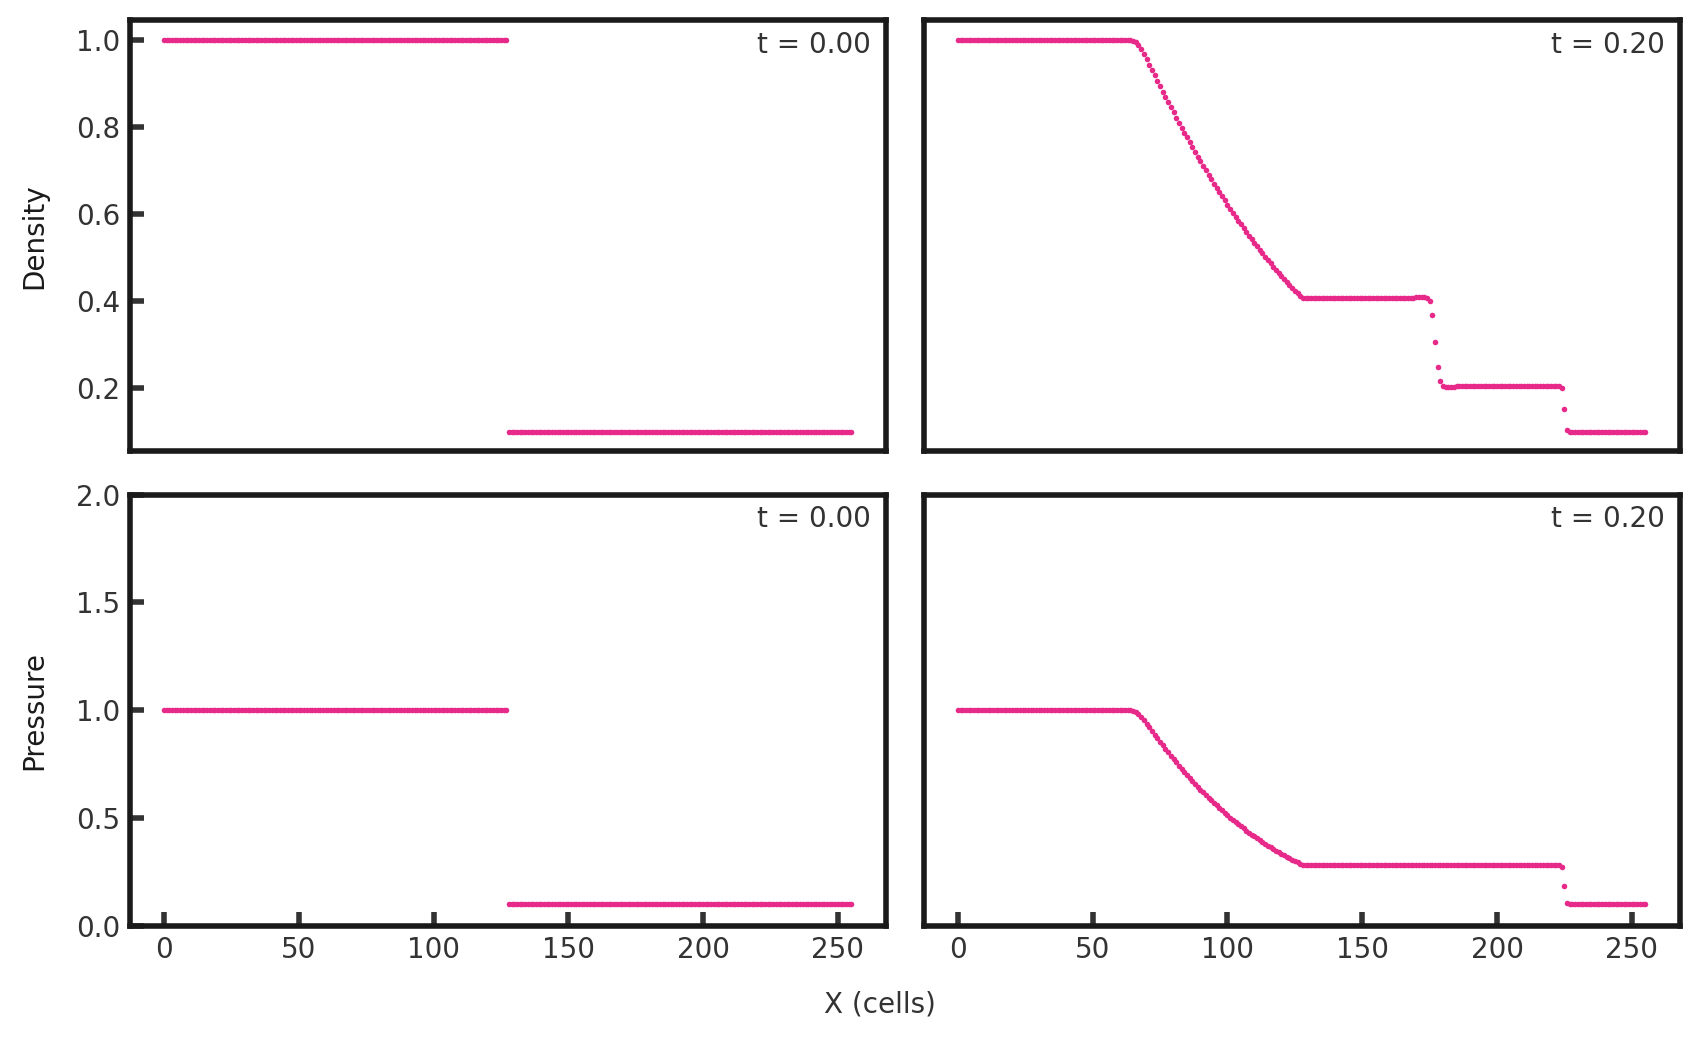
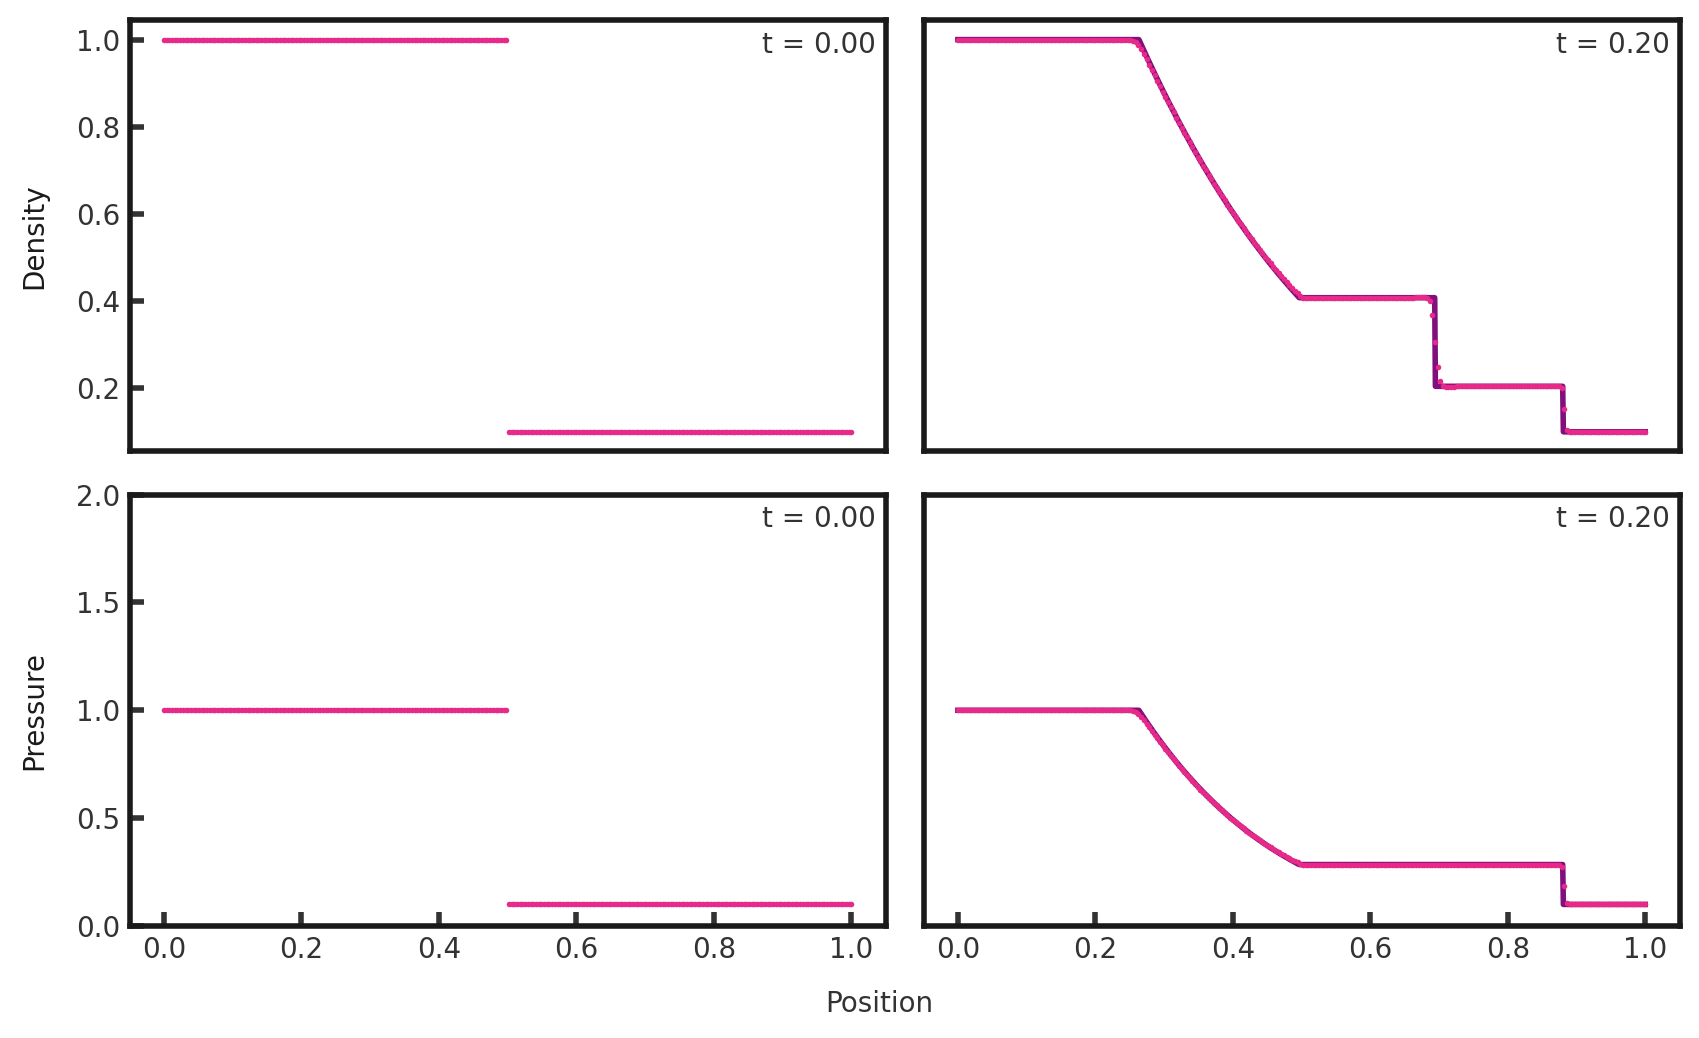
sod 256

diff --git a/3d_sod_256.md b/3d_sod_256.md
@@ -1,5 +1,5 @@
 # 3D Sod Shock Test (High resolution version)
-This is a higher resolution version of the sod shock test, with a grid of 256x256x256.
+This is a higher resolution version of the sod shock test, with a grid of 256x256x256.Parameters from Sod (1978).
 Illustrates the ability of a code to resolve shocks and contact discontinuities over a narrow region. The test consists of two constant states (on left pressure and density are equal to 1; on right they are equal to 0.1) separated by a discontinuity at 0.5. Gamma is set to 1.4. This test is performed with the default hydro build (`cholla/builds/make.type.hydro`).
 ## Parameter file: (`cholla/examples/3D/sod256.txt`)
 ```
@@ -64,6 +64,6 @@ gamma=1.4
 Upon completion, you should obtain two output files. The initial and final densities (in code units) of a slice along the y-midplane is shown below. Examples of how to plot projections and slices can be found in `cholla/python_scripts/Projection_Slice_Tutorial.ipynb`.  
 <img src="./images/sod256_density_xz.png" alt="Two 2D histograms side by side, showing density of cells in the z direction vs cells in x direction. The leftmost is the initial density plot with a constant density of 1 throughout all 256 y cells between x-cells 0 through 128 and a constant density of 0.1 between x cells 128 through 256. The rightmost plot is the final density plot at t = 0.20 with a nonconstant density in x and constant density in z. A density of 1 transitions abruptly to a density 0.8 around x = 70 cells, then gradually lessens to 0.6 around x = 125 cells. An abrupt change occurs at x = 170 cells to a density of 0.3 and the final abrupt transition is at x = 225 cells to a density of 0.2" width="1200" />  
 We see a smoother density gradient within the rarefaction wave due to the higher resolution.
-A skewer in x along the y and z midplanes yields the traditional 1-dimension solution:  
-<img src="./images/sod256_density_x.png" alt="On top are two scatter plots side by side of density vs cells in the x direction. The leftmost is the initial density plot with a density of 1 between x-cells 0 through 128 and a density of 0.1 between x cells 128 through 256. The rightmost plot is the final density plot at t = 0.20. A density of 1 transitions abruptly to a density 0.8 around x = 70 cells, then gradually lessens to 0.6 around x = 125 cells. An abrupt change occurs at x = 170 cells to a density of 0.3 and the final abrupt transition is at x = 225 cells to a density of 0.2. Below is two scatter plots side by side of pressure vs cells in the x direction. The leftmost plot is the initial pressure function of 1 from cells 0 to 128 and 0.1 from cells 128 to 256. The rightmost plot is the final pressure function, which is at 1 from 0 to 80 cells where is gradually decreases to 0.3 around x=125 cells. It is constant here until around x = 225 cells where it discontinuously jumps to a 0.2." width="1200" />  
+A skewer in x along the y and z midplanes yields the traditional 1-dimension solution shown below (pink dots) plotted over the exact solution (purple line).:  
+<img src="./images/sod256_density_x.png" alt="Two rows of two scatter plots side by side. The first row shows density vs x position while the second shows pressure vs x position. In all rows, the first plot has the text 't = 0.00' in the upper right corner while the second plot has the text 't = 0.20' in the upper right corner. The plots of the first column are shown with pink dots while the plots of the second column have pink dots plotted over a purple line. In all cases, the pink dots match the shape of the purple line, albeit imperfectly. The first plot in the first row (initial density) shows a density of 1.0 for x = 0 to x= 0.5 and a density of 0.1 for the remaining x values. The second (final density) plot shows a density of 1.0 for 0 \< x \< 0.2, then a continuous gradual decrease to a value of 0.4 at x = 0.5. Density remains constant until x = 0.7, then it jumps down abruptly to a value of 0.2. Density remains constant here until x = 0.9 where it makes a final jump to a value of 0.1, remaining at 0.1 for the final x values. In the second row, the first plot (initial pressure) is identical to the initial density plot. The second plot (final pressure) shows a pressure of 1.0 for 0 \< x \< 0.2, then a continuous gradual decrease to a value of 0.3 at x = 0.5. Pressure remains constant until x = 0.9 where it makes a jump to a value of 0.1, remaining at 0.1 for the final x values. " width="1200" />  
 We can see a rarefaction wave on the left side, followed first by a contact discontinuity and then a shock. Transitions between shocks are resolved more narrowly. 
